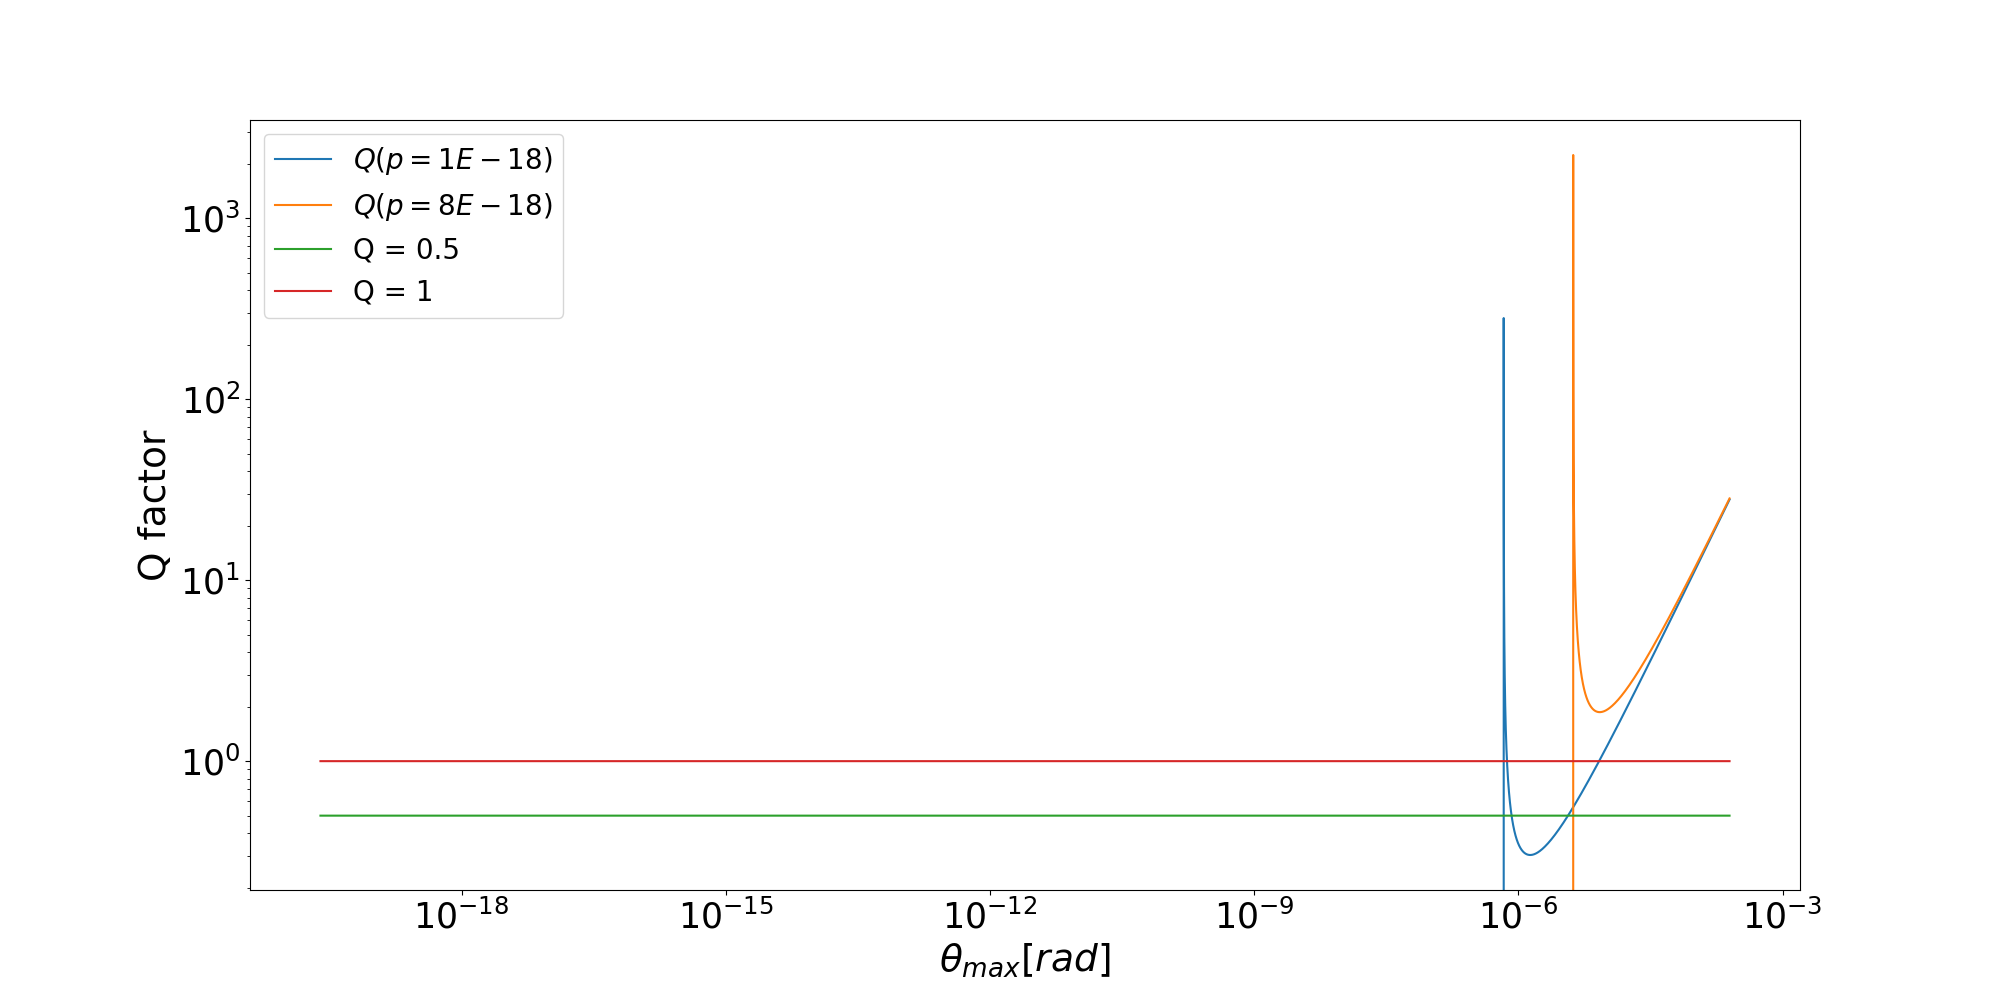
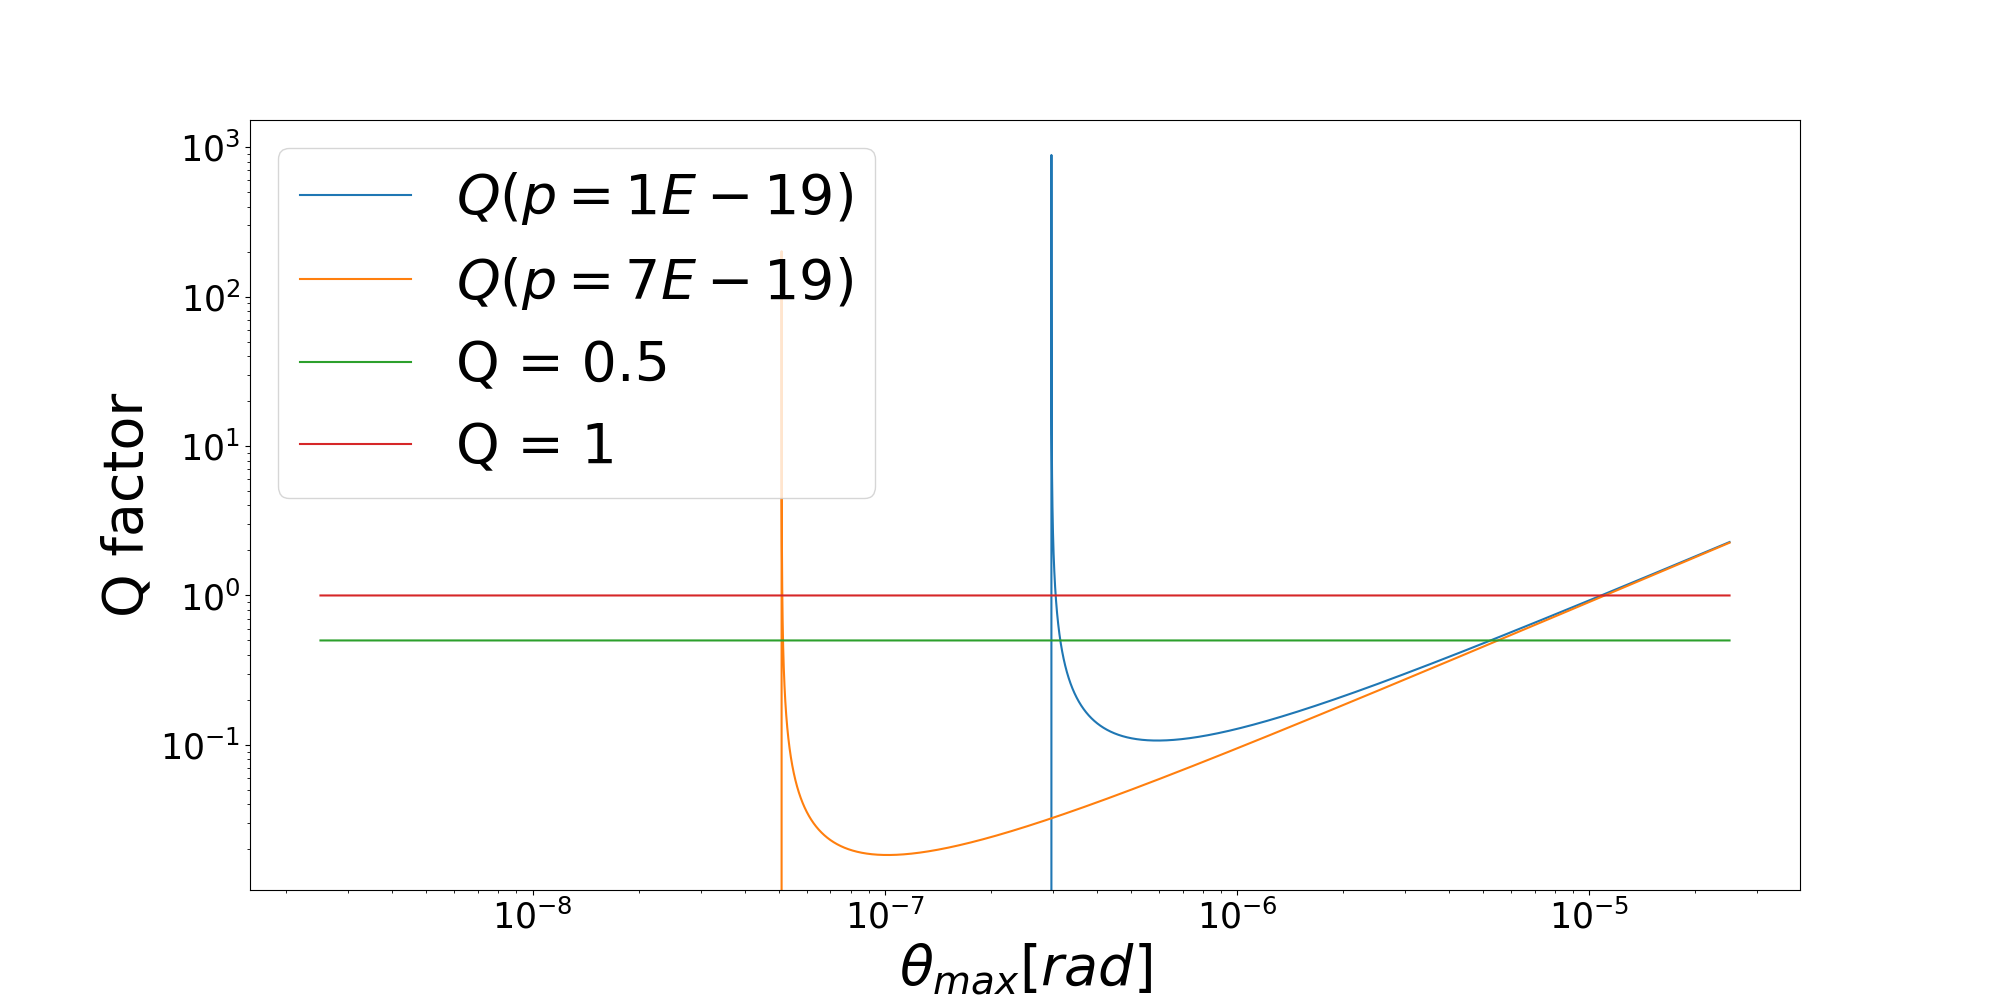
auto

diff --git a/chapters/4 - methods and results.tex b/chapters/4 - methods and results.tex
@@ -290,7 +290,7 @@ The damping would have a non negligible effect on the motion when the oscillator
 \label{eqn:low Q}
 \end{equation}
 
-It can be seen from eq.~\ref{eqn:Q} that when $Q<0$ the coupled noise power is larger than the work done by the PID, causing the oscillator to be driven. When assuming the noise power is the limiting factor of the damping, one can estimate the coupled noise power from the measured damped amplitude of the torsional pendulum $p \rightarrow \frac{ \theta_{max}^{PID}\pi\tau_{max}}{T}$, resulting with $Q(\theta_{max}^{PID},p)	\rightarrow 0$. Fig.~\ref{fig:Q factor} is a plot of $Q(\theta_{max},p)$, with the estimated coupled noise powers  of $p= 8\cdot 10^{-18} - 1\cdot 10^{-18} [W]$, which result  with $Q(\theta_{max}^{PID},p) \rightarrow 0$ at the actual measured damped amplitudes of $\theta_{max}^{PID}= 0.2 [\mu rad] -0.05 [\mu rad]$.
+It can be seen from eq.~\ref{eqn:Q} that when $Q<0$ the coupled noise power is larger than the work done by the PID, causing the oscillator to be driven. When assuming the noise power is the limiting factor of the damping, one can estimate the coupled noise power from the measured damped amplitude of the torsional pendulum $p \rightarrow \frac{ \theta_{max}^{PID}\pi\tau_{max}}{T}$, resulting with $Q(\theta_{max}^{PID},p)	\rightarrow 0$. Fig.~\ref{fig:Q factor} is a plot of $Q(\theta_{max},p)$, with the estimated coupled noise powers  of $p= 7\cdot 10^{-18} - 1\cdot 10^{-19} [W]$, which result  with $Q(\theta_{max}^{PID},p) \rightarrow 0$ at the actual measured damped amplitudes of $\theta_{max}^{PID}= 0.2 [\mu rad] -0.05 [\mu rad]$.
 
 \begin{figure}[htbp]
 	\centering
@@ -298,6 +298,7 @@ It can be seen from eq.~\ref{eqn:Q} that when $Q<0$ the coupled noise power is l
 	\caption[The torsional pendulum Q factor]{The torsional pendulum Q factor}
 	\label{fig:Q factor}
 \end{figure} 
+\FloatBarrier
 
 \subsection{Noise power}
 Due to Brownian motion, we estimate $n_p= \frac{N}{V}v A$ gas particles collisions per second into the cross section of the torsional pendulum. Each gas particle is with mass $m_0 = \frac{M}{N_A}$ and mean velosity of the gas flow $v$ (eq.~\ref{eqn:flow velocity}). Assuming all collisions are elastic, the particles exchange mean momentum of $k=2m_0v$, resulting in a force $F = n_p\cdot k$. Due to the collisions, the velosity of the torsional pendulum with mass $m_1$ is $ u =\frac{ n_p k}{m_1}$, resulting in a power, $p$, given by:

diff --git a/python/Q factor.py b/python/Q factor.py
@@ -3,19 +3,19 @@ import matplotlib.pyplot as plt
 plt.figure(figsize=(20,10))
 
 def fonts_define(xtitle,ytitle,lgd,font=25):
-    plt.xlabel(xtitle, fontsize=font+2)
-    plt.ylabel(ytitle, fontsize=font+2)
+    plt.xlabel(xtitle, fontsize=font)
+    plt.ylabel(ytitle, fontsize=font)
     plt.rc('xtick', labelsize=font) 
     plt.rc('ytick', labelsize=font)
-    plt.legend(lgd,loc=2, prop={'size': 20})
+    plt.legend(lgd,loc=2, prop={'size': font})
 def Q(p=1E-18, ones = False):
     n =int(1e5+1)
-    initaial = -4
-    final = -20
+    initaial = -5
+    final = -9
     theta = 2.5*10**(np.arange(n)[::-1]/(n-1)*(initaial - final)+final )
     kappa = 2.7e-6
     T=40
-    tau=3.4e-10
+    tau=30e-12
     p=np.ones([n])*p
     
     Q = np.pi/T*( (kappa*(theta**2)) / (theta*np.pi*tau/T-p))
@@ -36,11 +36,11 @@ def Q(p=1E-18, ones = False):
     
     plt.yscale('log')
     plt.xscale('log')
-Q(p=1.3E-18 )
-Q(p=8E-18,ones=True )
+Q(p=7E-19 )
+Q(p=1.2E-19,ones=True )
 # Q(p=4.4E-25,ones=True )
 
-fonts_define(r'$\theta_{max} [rad]$','Q factor',[r'$Q(p=1E-18)$',r'$Q(p=8E-18)$','Q = 0.5','Q = 1'],font=25)
+fonts_define(r'$\theta_{max} [rad]$','Q factor',[r'$Q(p=1E-19)$',r'$Q(p=7E-19)$','Q = 0.5','Q = 1'],font=40)
 
 plt.savefig('Q factor.png')
         

diff --git a/python/damp.py b/python/damp.py
@@ -12,7 +12,7 @@ def fonts_define(xtitle,ytitle,lgd,font=25):
 
 
 
-time = 40000 #s
+time = 400 #s
 t=np.linspace(0,time,3000);
 
 kappa = 2.5839284154826904e-06
@@ -34,7 +34,7 @@ plt.plot(t,xt)
 
 
 # underdamped
-xi = 0.01
+xi = 0.1
 tao = 1/(xi*omega_0)
 
 a=x0;
